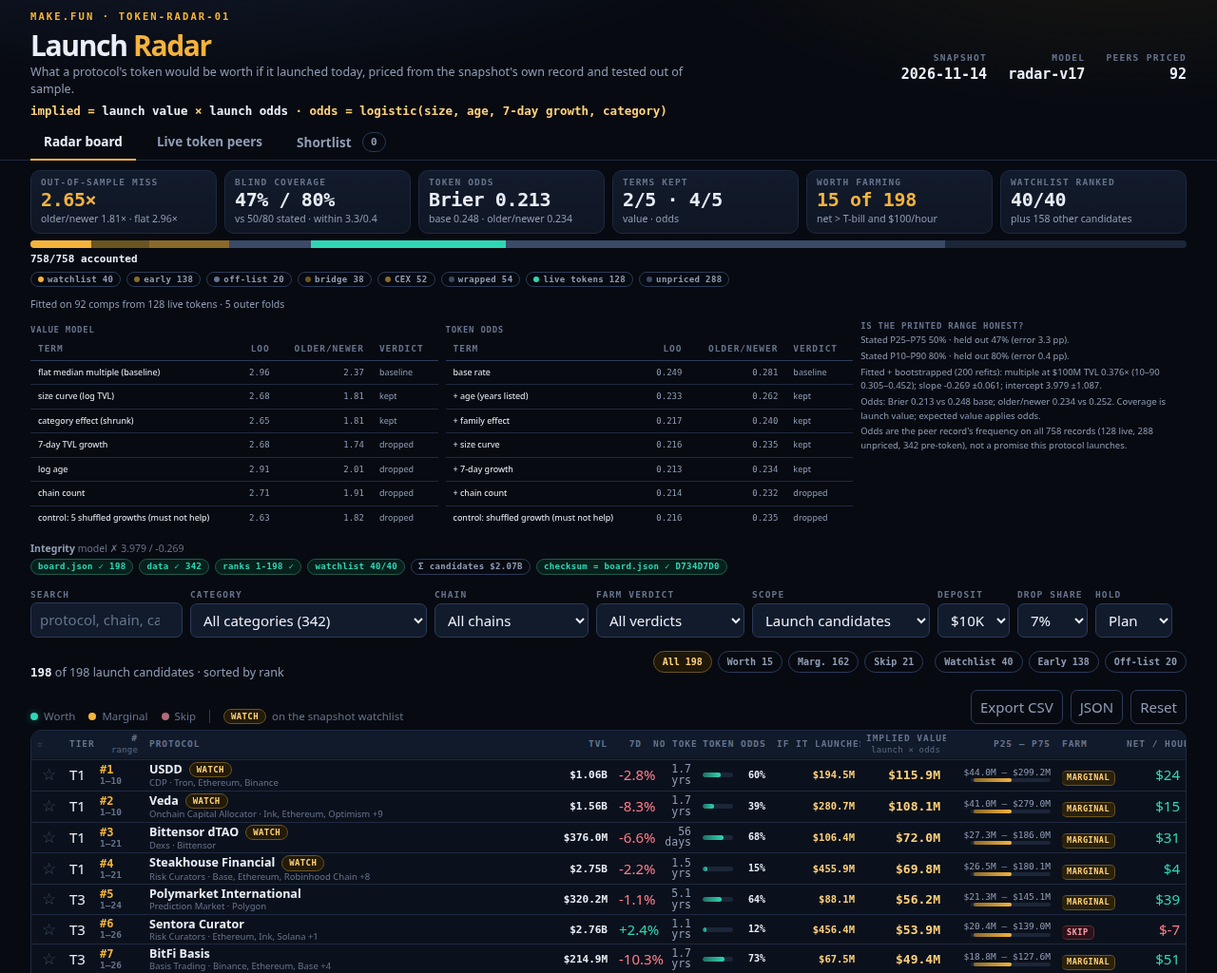
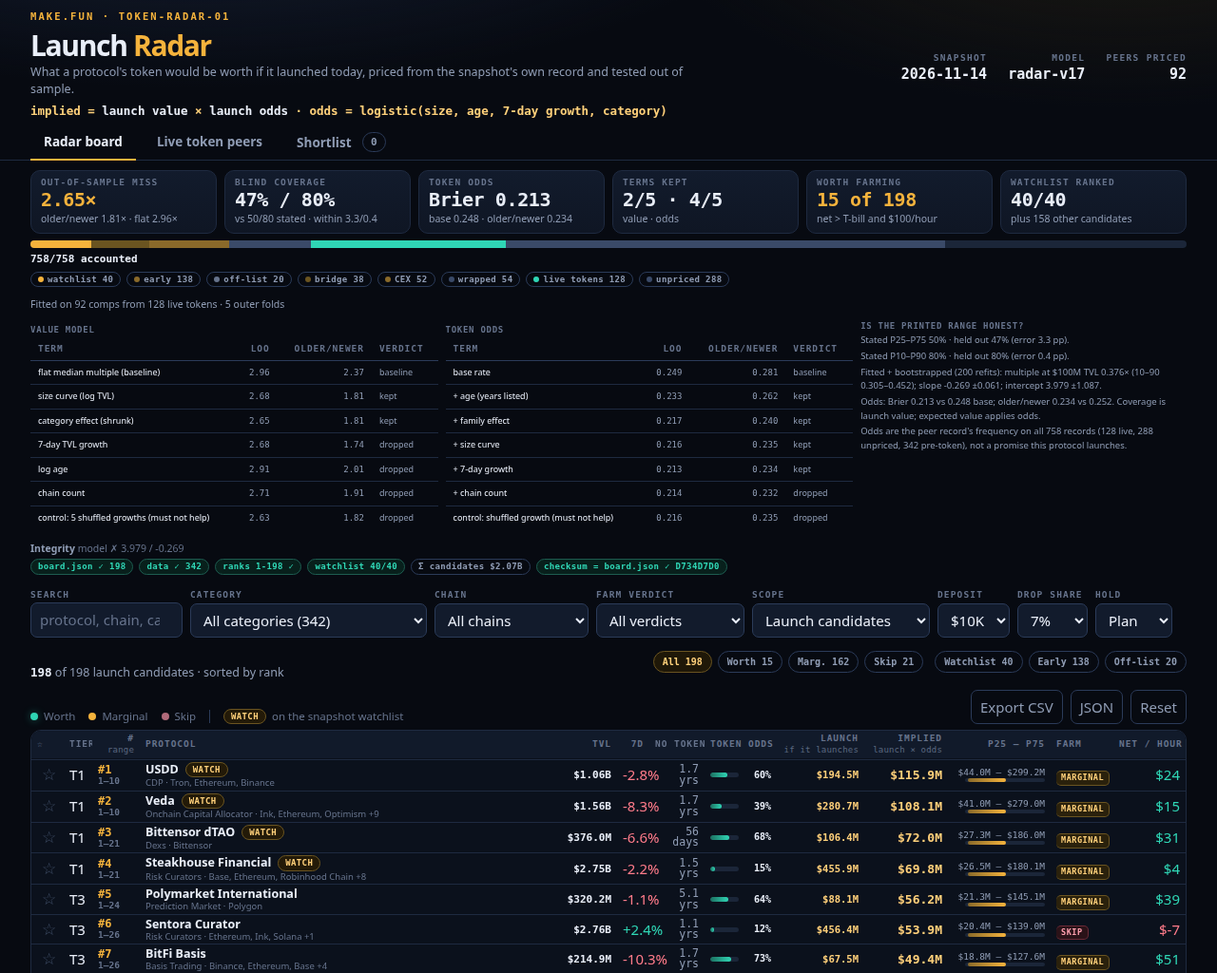
Fit the v17 board headers and final screenshots

diff --git a/dashboard/app.css b/dashboard/app.css
@@ -1,1 +1,1 @@
-:root{ --bg:#070a11;--panel:#0f1624;--panel2:#121b2c;--line:#1e2a40;--line2:#2b3b59; --text:#e9eef8;--mute:#8f9cb4;--dim:#66738c;--amber:#f5b33c;--amber2:#ffd07a; --teal:#2fd6b5;--red:#ff7b8a;--purple:#9a86b8; --mono:ui-monospace,"SF Mono",SFMono-Regular,Menlo,Consolas,monospace; }*{box-sizing:border-box}[hidden]{display:none!important}html{background:var(--bg)}body{margin:0;color:var(--text);font:15px/1.5 system-ui,-apple-system,"Segoe UI",Roboto,sans-serif; background:radial-gradient(1100px 420px at 16% -10%,#18233a 0%,transparent 60%),radial-gradient(900px 380px at 92% -6%,#1d1a12 0%,transparent 55%),var(--bg)}a{color:inherit}.skip{position:absolute;left:-999px;top:0;background:#fff;color:#000;padding:8px;z-index:20}.skip:focus{left:8px}.top{max-width:1440px;margin:0 auto;padding:12px 32px 6px;display:flex;justify-content:space-between;gap:24px;align-items:center}.eyebrow{display:block;font:600 10.5px/1 var(--mono);letter-spacing:.2em;text-transform:uppercase;color:var(--amber);margin-bottom:10px}h1{margin:0;font-size:30px;line-height:1;letter-spacing:-.045em;font-weight:740}h1 span{color:var(--amber)}.tagline{margin:4px 0 0;max-width:720px;color:var(--mute);font-size:12.5px}.stamp{display:flex;gap:22px;padding-top:4px}.stamp div{text-align:right}.stamp span{display:block;font:600 9.5px/1 var(--mono);letter-spacing:.14em;text-transform:uppercase;color:var(--dim)}.stamp b{display:block;margin-top:6px;font:600 15px/1 var(--mono)}.tabs{max-width:1440px;margin:0 auto;padding:0 32px;display:flex;gap:8px;border-bottom:1px solid var(--line)}.tabs a{padding:7px 14px;text-decoration:none;color:var(--mute);font-size:13.5px;font-weight:600;border-bottom:2px solid transparent;margin-bottom:-1px}.tabs a[aria-current=page]{color:var(--text);border-bottom-color:var(--amber)}.tabs a:hover{color:var(--text)}main{max-width:1440px;margin:0 auto;padding:10px 32px 30px}.kpis{display:grid;grid-template-columns:repeat(6,1fr);gap:8px}.kpi{background:linear-gradient(180deg,var(--panel2),var(--panel));border:1px solid var(--line);border-radius:10px;padding:7px 10px;min-height:62px}.kpi span{display:block;font:600 9.5px/1 var(--mono);letter-spacing:.12em;text-transform:uppercase;color:var(--dim)}.kpi b{display:block;margin-top:3px;font:600 20px/1 var(--mono);letter-spacing:-.02em}.kpi em{display:block;margin-top:3px;font-style:normal;font-size:10.5px;color:var(--mute)}.kpi.hot b{color:var(--amber)}.eqLine{margin:4px 0 0;color:var(--amber2);font:600 12.5px/1.4 var(--mono)}.eqLine b{color:var(--text)}.vchips{display:flex;gap:6px;margin:6px 0 10px;flex-wrap:wrap}.vchips button{font:600 10px/1.5 var(--mono);padding:3px 9px;border-radius:999px;background:transparent;color:var(--mute);border:1px solid var(--line2)}.vchips button.on{color:var(--amber2);border-color:#6a5420;background:#1f1808}.evGrid{display:grid;grid-template-columns:1fr 1fr .8fr;gap:8px;margin:2px 0 4px}.evHonesty{font-size:9.5px;line-height:1.55;color:var(--mute)}.honestyLine{margin:2px 0}.evChartTitle{font:600 9px var(--mono);letter-spacing:.08em;text-transform:uppercase;color:var(--dim);margin-bottom:3px}.evChart svg{width:100%;height:150px;display:block}.evTable caption{text-align:left;font:600 9px var(--mono);letter-spacing:.08em;text-transform:uppercase;color:var(--dim);padding:0 0 3px}.evTable{margin:4px 0 8px;font-size:10px}.evTable th,.evTable td{padding:1px 5px;font-size:9px}.chipRow{display:flex;gap:6px;flex-wrap:wrap;margin-top:4px}.statusline{margin:7px 0 2px;color:var(--mute);font-size:12px}.ledgerBar{display:flex;height:8px;border-radius:5px;overflow:hidden;background:#1b2639;margin:0 0 3px}.ledgerBar i{display:block;height:100%}.ledgerBar i.w{background:var(--amber)}.ledgerBar i.e{background:#8a6a2a}.ledgerBar i.s{background:#6a5420}.ledgerBar i.b{background:#6a5420}.ledgerBar i.c{background:#8a6a2a}.ledgerBar i.p{background:#3a4a68}.ledgerBar i.l{background:var(--teal)}.ledgerBar i.u{background:#3a4a68}.ledgerLegend{display:block;color:var(--dim);font-size:11px}.ledgerLegend b{color:var(--text);font-family:var(--mono)}.chip .dot{width:6px;height:6px;margin-right:4px;vertical-align:0}.dot.w{background:var(--amber)}.dot.e{background:#8a6a2a}.dot.s{background:#6a5420}.dot.b{background:#6a5420}.dot.c{background:#8a6a2a}.dot.p{background:#3a4a68}.dot.l{background:var(--teal)}.dot.u{background:#3a4a68}.chip{display:inline-block;border:1px solid var(--line2);border-radius:999px;padding:1px 7px;font:600 9px/1.4 var(--mono);letter-spacing:.04em;color:var(--mute)}.chip.watch{color:var(--amber2);border-color:#6a5420;background:#231a08}.chip.ok{color:var(--teal);border-color:#1d5c50;background:#08201c}.flowArrow{color:#33415e;font:600 13px var(--mono)}.flowItem{color:var(--mute);font-size:12px}.flowItem b{font-family:var(--mono);color:var(--text);font-size:12.5px}.flowItem.hot b{color:var(--amber)}.flowItem.ok b{color:var(--teal)}.flowNote{color:var(--dim);font-size:11px;margin-left:8px}.contract{margin:0 0 8px;color:var(--dim);font-size:10.5px;line-height:1.4}.evLine b{color:var(--mute);font-weight:600}.evLine i{font-style:normal;font-family:var(--mono);font-size:10px;margin-left:2px}.evLine i.up{color:var(--teal)}.evLine i.flat{color:#8a7a9a}.shareTable{margin:6px 0 4px}.shareTable th,.shareTable td{padding:1px 5px;font-size:9.5px}.shareTable tr.current td{color:var(--text);font-weight:600}.shareTable td:last-child{text-transform:uppercase;font-size:10px;letter-spacing:.04em}.toolbar{display:flex;gap:8px;align-items:flex-end;flex-wrap:wrap;padding:8px 0 6px}.toolbar label{display:flex;flex-direction:column;gap:4px}.toolbar label>span{font:600 9.5px/1 var(--mono);letter-spacing:.12em;text-transform:uppercase;color:var(--dim)}input,select,button{font:inherit;color:var(--text);background:var(--panel2);border:1px solid var(--line2);border-radius:7px;padding:6px 9px}input::placeholder{color:var(--dim)}input:focus,select:focus,button:focus-visible,a:focus-visible{outline:2px solid var(--amber);outline-offset:2px}.search input{width:160px}button{cursor:pointer}button.ghost{background:transparent;color:var(--mute)}button.ghost:hover{color:var(--text);border-color:var(--amber)}.sub{padding:2px 0 6px;justify-content:space-between}.count{margin:0;color:var(--mute);font-size:12.5px}.count b{color:var(--text);font-family:var(--mono)}.subActions{display:flex;gap:8px;margin-left:auto}.legend{display:flex;gap:14px;align-items:center;color:var(--dim);font-size:11.5px}.legend span{display:flex;align-items:center;gap:6px}.legend .sep{width:1px;height:14px;background:var(--line2)}.legend .sample{font-style:normal}.dot{width:8px;height:8px;border-radius:50%;display:inline-block;background:var(--dim)}.dot.v-worth{background:var(--teal);box-shadow:0 0 8px #2fd6b566}.dot.v-marginal{background:var(--amber)}.dot.v-skip{background:#b06a7a}.tableWrap{border:1px solid var(--line);border-radius:11px;overflow:auto;max-height:calc(100vh - 340px);background:#0b111c}table{border-collapse:collapse;width:100%;min-width:1180px}#table{table-layout:fixed;min-width:0}#table th:nth-child(2),#table td:nth-child(2){width:32px}#table th:nth-child(3),#table td:nth-child(3){width:52px}#table th:nth-child(4),#table td:nth-child(4){width:auto}#table th:nth-child(5),#table td:nth-child(5){width:68px}#table th:nth-child(6),#table td:nth-child(6){width:36px}#table th:nth-child(7),#table td:nth-child(7){width:52px}#table th:nth-child(8),#table td:nth-child(8){width:78px}#table th:nth-child(9),#table td:nth-child(9){width:94px}#table th:nth-child(10),#table td:nth-child(10){width:90px}#table th:nth-child(11),#table td:nth-child(11){width:116px}#table th:nth-child(12),#table td:nth-child(12){width:68px}#table th:nth-child(13),#table td:nth-child(13){width:68px}th,td{padding:2px 6px;text-align:left;border-bottom:1px solid var(--line);vertical-align:middle}th{position:sticky;top:0;z-index:2;background:#111a2a;font:600 9.5px/1.2 var(--mono);letter-spacing:.1em;text-transform:uppercase;color:var(--dim);white-space:nowrap;cursor:pointer;user-select:none}th small{display:block;font:500 9px/1.3 var(--mono);letter-spacing:.02em;text-transform:none;color:#5b6880;margin-top:2px}th:hover{color:var(--text)}th[data-active=asc]::after{content:' ↑';color:var(--amber)}th[data-active=desc]::after{content:' ↓';color:var(--amber)}th.num,td.num{text-align:right;font-variant-numeric:tabular-nums}tbody tr{cursor:pointer}tbody tr:hover{background:#121c2e}tbody tr:last-child td{border-bottom:0}td.rank{font:600 12px/1 var(--mono);color:var(--dim)}td.rank b{color:var(--amber)}.name{font-weight:650;font-size:12.5px;line-height:1.2}.name .chip{margin-left:7px;vertical-align:1px}.subline{margin-top:0;color:var(--dim);font-size:9.5px;line-height:1.2;max-width:300px;overflow:hidden;text-overflow:ellipsis;white-space:nowrap}td.money{font:600 11px/1 var(--mono)}td.implied{font:700 13px/1 var(--mono);color:var(--amber2)}td.launchVal{font:600 10.5px/1 var(--mono);color:var(--amber2)}td.multiple{font:500 12.5px/1 var(--mono)}td.age{font:500 11.5px/1 var(--mono);color:var(--mute)}td.bandText{font:500 9.5px/1 var(--mono);color:var(--mute);white-space:nowrap}.bandText span{display:block}.bandTrack{width:84px;height:4px;background:#1b2639;border-radius:2px;position:relative;overflow:hidden;margin:2px 0 0 auto}.bandTrack i{position:absolute;height:100%;background:linear-gradient(90deg,#8a6a2a,#f5b33c);border-radius:2px}.up{color:var(--teal)}.dn{color:var(--red)}.flat{color:var(--dim)}.starcol{width:34px;padding-right:0}.star{background:none;border:0;color:#3c4a63;font-size:17px;line-height:1;padding:2px 5px;border-radius:5px}.star:hover{color:var(--amber2)}.star.on{color:var(--amber)}.oddsCell{padding-top:6px;padding-bottom:6px}.odds{display:flex;align-items:center;gap:6px;justify-content:flex-end}.odds .track{width:40px;height:5px;background:#1b2639;border-radius:4px;overflow:hidden}.odds .track i{display:block;height:100%;background:linear-gradient(90deg,#1c6f60,#2fd6b5);border-radius:4px}.odds b{font:600 10px/1 var(--mono);color:var(--text);min-width:28px;text-align:right}.odds.wide{margin-top:4px}.odds.wide .track{width:100%;height:8px}.oddsBig{font:700 22px/1 var(--mono);color:var(--teal)}.verdict{display:inline-block;border-radius:5px;padding:1px 5px;font:700 8.5px/1.38 var(--mono);letter-spacing:.06em;border:1px solid transparent}.verdict.v-worth{background:#0b3a31;color:#5ff0d0;border-color:#1d6b5c}.verdict.v-marginal{background:#2a210c;color:#ffd07a;border-color:#6a5420}.verdict.v-skip{background:#2a1218;color:#ff9fae;border-color:#6a2a36}.verdictHead{display:flex;justify-content:space-between;align-items:center;gap:10px;margin-bottom:8px}.verdictHead b{font:600 13px/1.3 var(--mono)}.empty{padding:30px;text-align:center;color:var(--dim)}.footnote{margin:10px 2px 0;color:var(--dim);font-size:11.5px;max-width:960px}.pill{display:inline-block;margin-left:8px;border:1px solid var(--line2);border-radius:999px;padding:1px 8px;font:600 11px/1.6 var(--mono);color:var(--mute);vertical-align:2px}.sectionHead{padding:6px 0 12px}.sectionHead h2{margin:0 0 4px;font-size:22px;letter-spacing:-.02em}.sectionHead p{margin:0;color:var(--mute);font-size:13px;max-width:860px}.foot{max-width:1440px;margin:0 auto;padding:18px 32px 34px;border-top:1px solid var(--line);display:flex;justify-content:space-between;gap:20px;color:var(--dim);font-size:11.5px}.back{display:inline-flex;align-items:center;gap:8px;color:var(--mute);text-decoration:none;font-size:12.5px;margin:2px 0 14px}.back:hover{color:var(--amber)}.detail-route .top{padding:8px 32px 4px}.detail-route .brand h1{font-size:24px;margin:2px 0 0}.detail-route .tagline,.detail-route .eqLine,.detail-route .eyebrow{display:none}.detail-route .stamp div{padding:4px 8px}.detail-route .stamp span{font-size:8px}.detail-route .stamp b{font-size:10px}.detail-route main{padding-top:4px}.detailTop{border:1px solid var(--line);border-radius:12px;padding:8px 16px;background:linear-gradient(180deg,#141d2f,#0d1421)}.detailTitle{display:flex;align-items:baseline;gap:12px;flex-wrap:wrap;margin:0}.detailTitle h2{margin:0;font-size:26px;letter-spacing:-.03em}.rankChip{font:700 12px/1 var(--mono);color:#1b1305;background:var(--amber);border-radius:6px;padding:5px 8px}.rankChip.dim{background:#243149;color:var(--mute)}.detailMeta{margin-top:6px;color:var(--mute);font-size:13px}.detailMeta b{color:var(--text);font-weight:600}.notCand{margin-top:12px;border:1px solid #6a5420;background:#221a09;color:#ffd8a0;border-radius:8px;padding:9px 12px;font-size:12.5px}.statGrid{display:grid;grid-template-columns:repeat(4,1fr);gap:8px;margin:8px 0}.stat{background:var(--panel);border:1px solid var(--line);border-radius:10px;padding:7px 10px}.stat span{font:600 9.5px/1 var(--mono);letter-spacing:.12em;text-transform:uppercase;color:var(--dim)}.stat b{display:block;margin-top:4px;font:700 18px/1 var(--mono);letter-spacing:-.02em}.stat b.hot{color:var(--amber2)}.stat em{display:block;margin-top:5px;font-style:normal;color:var(--mute);font-size:11.5px}.cols{display:grid;grid-template-columns:1.02fr .98fr;gap:14px;align-items:start}.cols>*{min-width:0}.panel{background:var(--panel);border:1px solid var(--line);border-radius:11px;padding:10px 12px}.panel h3{margin:0 0 8px;font-size:14px}.panel h3:not(:first-child){margin-top:16px}.panel p{margin:6px 0;color:var(--mute);font-size:12.5px}.terms{display:grid;grid-template-columns:repeat(3,1fr);gap:8px;margin:10px 0}.term{background:#0b1220;border:1px solid var(--line);border-radius:8px;padding:9px 10px}.term span{display:block;font:600 9px/1.2 var(--mono);letter-spacing:.1em;text-transform:uppercase;color:var(--dim)}.term b{display:block;margin-top:5px;font:700 15px/1 var(--mono)}.term em{display:block;margin-top:4px;font-style:normal;font-size:10.5px;color:var(--dim)}.term.result{border-color:#6a5420;background:#1f1808}.term.result b{color:var(--amber2)}table.mini{width:100%;min-width:0;border-collapse:collapse;font-size:12px}table.mini th{position:static;background:transparent;border-bottom:1px solid var(--line2);padding:6px 8px;cursor:default;font-size:9.5px}table.mini td{padding:6px 8px;border-bottom:1px solid var(--line);color:var(--mute)}table.mini td:first-child{color:var(--text)}table.mini td.num{font-family:var(--mono)}.sandbox{margin:12px 0 6px;background:#0b1220;border:1px solid var(--line);border-radius:9px;padding:12px}.sbHead{display:flex;justify-content:space-between;align-items:center;gap:10px}.sbHead h4{margin:0;font-size:12px}.sbReset{font-size:11px;padding:3px 9px}.sbHint{margin:4px 0 8px;font-size:11px;color:var(--dim)}.sbRow{display:grid;grid-template-columns:94px 1fr 74px;gap:10px;align-items:center;font-size:11.5px;color:var(--mute);margin:5px 0}.sbRow input[type=range]{width:100%;accent-color:var(--amber);background:none;border:0;padding:0}.sbRow b{font-family:var(--mono);font-size:11.5px;color:var(--text);text-align:right}.sbOut{display:flex;gap:10px;align-items:baseline;margin-top:10px;border-top:1px solid var(--line);padding-top:9px;flex-wrap:wrap}.sbOut span{font:600 9px var(--mono);letter-spacing:.1em;text-transform:uppercase;color:var(--dim)}.sbOut b{font:700 19px var(--mono);color:var(--amber2)}.sbOut em{font-style:normal;color:var(--dim);font-size:10.5px}.planTable{table-layout:fixed;width:100%}.planTable td{vertical-align:top;padding:0 3px;font-size:9px;line-height:1.15}.planTable th:nth-child(1),.planTable td:nth-child(1){width:24px}.planTable th:nth-child(3),.planTable td.cost{width:82px}.planTable th:nth-child(4),.planTable td.time{width:58px}.planTable td:nth-child(2){white-space:normal;word-break:break-word;color:var(--mute);line-height:1.45}.planTable td.cost{font-family:var(--mono);white-space:normal;line-height:1.35;color:var(--amber2);font-size:11px}.planTable td.time{font-family:var(--mono);white-space:normal;line-height:1.35;color:var(--dim);font-size:11px}.verdict{border-left:0}.verdictHead + .terms{margin-top:8px}.dd{margin:6px 0 0;padding-left:18px;color:var(--mute);font-size:12.5px}.dd li{margin:4px 0}.muted{color:var(--mute)}.eq{font:600 14px/1.5 var(--mono);color:var(--amber2);background:#0b1220;border:1px solid var(--line);border-radius:8px;padding:10px 12px}.score span{display:block;font:600 9px/1.2 var(--mono);letter-spacing:.1em;text-transform:uppercase;color:var(--dim)}.limits{margin:6px 0;padding-left:18px;color:var(--mute);font-size:12.5px}.limits li{margin:4px 0}.source{margin-top:10px;font-size:11px;word-break:break-word}.compareTable{width:100%;border-collapse:collapse;background:var(--panel);border:1px solid var(--line);border-radius:10px;overflow:hidden;font-size:12.5px}.compareTable th,.compareTable td{padding:9px 12px;border-bottom:1px solid var(--line);text-align:left}.compareTable th{position:static;background:#111a2a;font:600 10px var(--mono);letter-spacing:.1em;text-transform:uppercase;color:var(--dim);cursor:default}.compareTable th.num,.compareTable td.num{text-align:right;font-family:var(--mono)}.compareTable td:first-child{color:var(--mute);white-space:nowrap}.inlineLink{color:var(--amber);text-decoration:none;border-bottom:1px solid #6a5420}@media (max-width:1100px){.kpis{grid-template-columns:repeat(3,1fr)}.cols,.terms{grid-template-columns:repeat(2,1fr)}.statGrid{grid-template-columns:repeat(2,1fr)}.stamp{display:none}}.planTotals{grid-template-columns:repeat(6,1fr)}.planList{margin-top:8px}@media (max-width:1100px){.planTotals{grid-template-columns:repeat(3,1fr)}}
+:root{ --bg:#070a11;--panel:#0f1624;--panel2:#121b2c;--line:#1e2a40;--line2:#2b3b59; --text:#e9eef8;--mute:#8f9cb4;--dim:#66738c;--amber:#f5b33c;--amber2:#ffd07a; --teal:#2fd6b5;--red:#ff7b8a;--purple:#9a86b8; --mono:ui-monospace,"SF Mono",SFMono-Regular,Menlo,Consolas,monospace; }*{box-sizing:border-box}[hidden]{display:none!important}html{background:var(--bg)}body{margin:0;color:var(--text);font:15px/1.5 system-ui,-apple-system,"Segoe UI",Roboto,sans-serif; background:radial-gradient(1100px 420px at 16% -10%,#18233a 0%,transparent 60%),radial-gradient(900px 380px at 92% -6%,#1d1a12 0%,transparent 55%),var(--bg)}a{color:inherit}.skip{position:absolute;left:-999px;top:0;background:#fff;color:#000;padding:8px;z-index:20}.skip:focus{left:8px}.top{max-width:1440px;margin:0 auto;padding:12px 32px 6px;display:flex;justify-content:space-between;gap:24px;align-items:center}.eyebrow{display:block;font:600 10.5px/1 var(--mono);letter-spacing:.2em;text-transform:uppercase;color:var(--amber);margin-bottom:10px}h1{margin:0;font-size:30px;line-height:1;letter-spacing:-.045em;font-weight:740}h1 span{color:var(--amber)}.tagline{margin:4px 0 0;max-width:720px;color:var(--mute);font-size:12.5px}.stamp{display:flex;gap:22px;padding-top:4px}.stamp div{text-align:right}.stamp span{display:block;font:600 9.5px/1 var(--mono);letter-spacing:.14em;text-transform:uppercase;color:var(--dim)}.stamp b{display:block;margin-top:6px;font:600 15px/1 var(--mono)}.tabs{max-width:1440px;margin:0 auto;padding:0 32px;display:flex;gap:8px;border-bottom:1px solid var(--line)}.tabs a{padding:7px 14px;text-decoration:none;color:var(--mute);font-size:13.5px;font-weight:600;border-bottom:2px solid transparent;margin-bottom:-1px}.tabs a[aria-current=page]{color:var(--text);border-bottom-color:var(--amber)}.tabs a:hover{color:var(--text)}main{max-width:1440px;margin:0 auto;padding:10px 32px 30px}.kpis{display:grid;grid-template-columns:repeat(6,1fr);gap:8px}.kpi{background:linear-gradient(180deg,var(--panel2),var(--panel));border:1px solid var(--line);border-radius:10px;padding:7px 10px;min-height:62px}.kpi span{display:block;font:600 9.5px/1 var(--mono);letter-spacing:.12em;text-transform:uppercase;color:var(--dim)}.kpi b{display:block;margin-top:3px;font:600 20px/1 var(--mono);letter-spacing:-.02em}.kpi em{display:block;margin-top:3px;font-style:normal;font-size:10.5px;color:var(--mute)}.kpi.hot b{color:var(--amber)}.eqLine{margin:4px 0 0;color:var(--amber2);font:600 12.5px/1.4 var(--mono)}.eqLine b{color:var(--text)}.vchips{display:flex;gap:6px;margin:6px 0 10px;flex-wrap:wrap}.vchips button{font:600 10px/1.5 var(--mono);padding:3px 9px;border-radius:999px;background:transparent;color:var(--mute);border:1px solid var(--line2)}.vchips button.on{color:var(--amber2);border-color:#6a5420;background:#1f1808}.evGrid{display:grid;grid-template-columns:1fr 1fr .8fr;gap:8px;margin:2px 0 4px}.evHonesty{font-size:9.5px;line-height:1.55;color:var(--mute)}.honestyLine{margin:2px 0}.evChartTitle{font:600 9px var(--mono);letter-spacing:.08em;text-transform:uppercase;color:var(--dim);margin-bottom:3px}.evChart svg{width:100%;height:150px;display:block}.evTable caption{text-align:left;font:600 9px var(--mono);letter-spacing:.08em;text-transform:uppercase;color:var(--dim);padding:0 0 3px}.evTable{margin:4px 0 8px;font-size:10px}.evTable th,.evTable td{padding:1px 5px;font-size:9px}.chipRow{display:flex;gap:6px;flex-wrap:wrap;margin-top:4px}.statusline{margin:7px 0 2px;color:var(--mute);font-size:12px}.ledgerBar{display:flex;height:8px;border-radius:5px;overflow:hidden;background:#1b2639;margin:0 0 3px}.ledgerBar i{display:block;height:100%}.ledgerBar i.w{background:var(--amber)}.ledgerBar i.e{background:#8a6a2a}.ledgerBar i.s{background:#6a5420}.ledgerBar i.b{background:#6a5420}.ledgerBar i.c{background:#8a6a2a}.ledgerBar i.p{background:#3a4a68}.ledgerBar i.l{background:var(--teal)}.ledgerBar i.u{background:#3a4a68}.ledgerLegend{display:block;color:var(--dim);font-size:11px}.ledgerLegend b{color:var(--text);font-family:var(--mono)}.chip .dot{width:6px;height:6px;margin-right:4px;vertical-align:0}.dot.w{background:var(--amber)}.dot.e{background:#8a6a2a}.dot.s{background:#6a5420}.dot.b{background:#6a5420}.dot.c{background:#8a6a2a}.dot.p{background:#3a4a68}.dot.l{background:var(--teal)}.dot.u{background:#3a4a68}.chip{display:inline-block;border:1px solid var(--line2);border-radius:999px;padding:1px 7px;font:600 9px/1.4 var(--mono);letter-spacing:.04em;color:var(--mute)}.chip.watch{color:var(--amber2);border-color:#6a5420;background:#231a08}.chip.ok{color:var(--teal);border-color:#1d5c50;background:#08201c}.flowArrow{color:#33415e;font:600 13px var(--mono)}.flowItem{color:var(--mute);font-size:12px}.flowItem b{font-family:var(--mono);color:var(--text);font-size:12.5px}.flowItem.hot b{color:var(--amber)}.flowItem.ok b{color:var(--teal)}.flowNote{color:var(--dim);font-size:11px;margin-left:8px}.contract{margin:0 0 8px;color:var(--dim);font-size:10.5px;line-height:1.4}.evLine b{color:var(--mute);font-weight:600}.evLine i{font-style:normal;font-family:var(--mono);font-size:10px;margin-left:2px}.evLine i.up{color:var(--teal)}.evLine i.flat{color:#8a7a9a}.shareTable{margin:6px 0 4px}.shareTable th,.shareTable td{padding:1px 5px;font-size:9.5px}.shareTable tr.current td{color:var(--text);font-weight:600}.shareTable td:last-child{text-transform:uppercase;font-size:10px;letter-spacing:.04em}.toolbar{display:flex;gap:8px;align-items:flex-end;flex-wrap:wrap;padding:8px 0 6px}.toolbar label{display:flex;flex-direction:column;gap:4px}.toolbar label>span{font:600 9.5px/1 var(--mono);letter-spacing:.12em;text-transform:uppercase;color:var(--dim)}input,select,button{font:inherit;color:var(--text);background:var(--panel2);border:1px solid var(--line2);border-radius:7px;padding:6px 9px}input::placeholder{color:var(--dim)}input:focus,select:focus,button:focus-visible,a:focus-visible{outline:2px solid var(--amber);outline-offset:2px}.search input{width:160px}button{cursor:pointer}button.ghost{background:transparent;color:var(--mute)}button.ghost:hover{color:var(--text);border-color:var(--amber)}.sub{padding:2px 0 6px;justify-content:space-between}.count{margin:0;color:var(--mute);font-size:12.5px}.count b{color:var(--text);font-family:var(--mono)}.subActions{display:flex;gap:8px;margin-left:auto}.legend{display:flex;gap:14px;align-items:center;color:var(--dim);font-size:11.5px}.legend span{display:flex;align-items:center;gap:6px}.legend .sep{width:1px;height:14px;background:var(--line2)}.legend .sample{font-style:normal}.dot{width:8px;height:8px;border-radius:50%;display:inline-block;background:var(--dim)}.dot.v-worth{background:var(--teal);box-shadow:0 0 8px #2fd6b566}.dot.v-marginal{background:var(--amber)}.dot.v-skip{background:#b06a7a}.tableWrap{border:1px solid var(--line);border-radius:11px;overflow:auto;max-height:calc(100vh - 340px);background:#0b111c}table{border-collapse:collapse;width:100%;min-width:1180px}#table{table-layout:fixed;min-width:0}#table th:nth-child(2),#table td:nth-child(2){width:30px}#table th:nth-child(3),#table td:nth-child(3){width:50px}#table th:nth-child(4),#table td:nth-child(4){width:auto}#table th:nth-child(5),#table td:nth-child(5){width:66px}#table th:nth-child(6),#table td:nth-child(6){width:34px}#table th:nth-child(7),#table td:nth-child(7){width:58px}#table th:nth-child(8),#table td:nth-child(8){width:76px}#table th:nth-child(9),#table td:nth-child(9){width:92px}#table th:nth-child(10),#table td:nth-child(10){width:88px}#table th:nth-child(11),#table td:nth-child(11){width:108px}#table th:nth-child(12),#table td:nth-child(12){width:66px}#table th:nth-child(13),#table td:nth-child(13){width:76px}th,td{padding:2px 6px;text-align:left;border-bottom:1px solid var(--line);vertical-align:middle}th{position:sticky;top:0;z-index:2;background:#111a2a;font:600 9.5px/1.2 var(--mono);letter-spacing:.1em;text-transform:uppercase;color:var(--dim);white-space:nowrap;cursor:pointer;user-select:none}th small{display:block;font:500 9px/1.3 var(--mono);letter-spacing:.02em;text-transform:none;color:#5b6880;margin-top:2px}th:hover{color:var(--text)}th[data-active=asc]::after{content:' ↑';color:var(--amber)}th[data-active=desc]::after{content:' ↓';color:var(--amber)}th.num,td.num{text-align:right;font-variant-numeric:tabular-nums}tbody tr{cursor:pointer}tbody tr:hover{background:#121c2e}tbody tr:last-child td{border-bottom:0}td.rank{font:600 12px/1 var(--mono);color:var(--dim)}td.rank b{color:var(--amber)}.name{font-weight:650;font-size:12.5px;line-height:1.2}.name .chip{margin-left:7px;vertical-align:1px}.subline{margin-top:0;color:var(--dim);font-size:9.5px;line-height:1.2;max-width:300px;overflow:hidden;text-overflow:ellipsis;white-space:nowrap}td.money{font:600 11px/1 var(--mono)}td.implied{font:700 13px/1 var(--mono);color:var(--amber2)}td.launchVal{font:600 10.5px/1 var(--mono);color:var(--amber2)}td.multiple{font:500 12.5px/1 var(--mono)}td.age{font:500 11.5px/1 var(--mono);color:var(--mute)}td.bandText{font:500 9.5px/1 var(--mono);color:var(--mute);white-space:nowrap}.bandText span{display:block}.bandTrack{width:84px;height:4px;background:#1b2639;border-radius:2px;position:relative;overflow:hidden;margin:2px 0 0 auto}.bandTrack i{position:absolute;height:100%;background:linear-gradient(90deg,#8a6a2a,#f5b33c);border-radius:2px}.up{color:var(--teal)}.dn{color:var(--red)}.flat{color:var(--dim)}.starcol{width:34px;padding-right:0}.star{background:none;border:0;color:#3c4a63;font-size:17px;line-height:1;padding:2px 5px;border-radius:5px}.star:hover{color:var(--amber2)}.star.on{color:var(--amber)}.oddsCell{padding-top:6px;padding-bottom:6px}.odds{display:flex;align-items:center;gap:6px;justify-content:flex-end}.odds .track{width:40px;height:5px;background:#1b2639;border-radius:4px;overflow:hidden}.odds .track i{display:block;height:100%;background:linear-gradient(90deg,#1c6f60,#2fd6b5);border-radius:4px}.odds b{font:600 10px/1 var(--mono);color:var(--text);min-width:28px;text-align:right}.odds.wide{margin-top:4px}.odds.wide .track{width:100%;height:8px}.oddsBig{font:700 22px/1 var(--mono);color:var(--teal)}.verdict{display:inline-block;border-radius:5px;padding:1px 5px;font:700 8.5px/1.38 var(--mono);letter-spacing:.06em;border:1px solid transparent}.verdict.v-worth{background:#0b3a31;color:#5ff0d0;border-color:#1d6b5c}.verdict.v-marginal{background:#2a210c;color:#ffd07a;border-color:#6a5420}.verdict.v-skip{background:#2a1218;color:#ff9fae;border-color:#6a2a36}.verdictHead{display:flex;justify-content:space-between;align-items:center;gap:10px;margin-bottom:8px}.verdictHead b{font:600 13px/1.3 var(--mono)}.empty{padding:30px;text-align:center;color:var(--dim)}.footnote{margin:10px 2px 0;color:var(--dim);font-size:11.5px;max-width:960px}.pill{display:inline-block;margin-left:8px;border:1px solid var(--line2);border-radius:999px;padding:1px 8px;font:600 11px/1.6 var(--mono);color:var(--mute);vertical-align:2px}.sectionHead{padding:6px 0 12px}.sectionHead h2{margin:0 0 4px;font-size:22px;letter-spacing:-.02em}.sectionHead p{margin:0;color:var(--mute);font-size:13px;max-width:860px}.foot{max-width:1440px;margin:0 auto;padding:18px 32px 34px;border-top:1px solid var(--line);display:flex;justify-content:space-between;gap:20px;color:var(--dim);font-size:11.5px}.back{display:inline-flex;align-items:center;gap:8px;color:var(--mute);text-decoration:none;font-size:12.5px;margin:2px 0 14px}.back:hover{color:var(--amber)}.detail-route .top{padding:8px 32px 4px}.detail-route .brand h1{font-size:24px;margin:2px 0 0}.detail-route .tagline,.detail-route .eqLine,.detail-route .eyebrow{display:none}.detail-route .stamp div{padding:4px 8px}.detail-route .stamp span{font-size:8px}.detail-route .stamp b{font-size:10px}.detail-route main{padding-top:4px}.detailTop{border:1px solid var(--line);border-radius:12px;padding:8px 16px;background:linear-gradient(180deg,#141d2f,#0d1421)}.detailTitle{display:flex;align-items:baseline;gap:12px;flex-wrap:wrap;margin:0}.detailTitle h2{margin:0;font-size:26px;letter-spacing:-.03em}.rankChip{font:700 12px/1 var(--mono);color:#1b1305;background:var(--amber);border-radius:6px;padding:5px 8px}.rankChip.dim{background:#243149;color:var(--mute)}.detailMeta{margin-top:6px;color:var(--mute);font-size:13px}.detailMeta b{color:var(--text);font-weight:600}.notCand{margin-top:12px;border:1px solid #6a5420;background:#221a09;color:#ffd8a0;border-radius:8px;padding:9px 12px;font-size:12.5px}.statGrid{display:grid;grid-template-columns:repeat(4,1fr);gap:8px;margin:8px 0}.stat{background:var(--panel);border:1px solid var(--line);border-radius:10px;padding:7px 10px}.stat span{font:600 9.5px/1 var(--mono);letter-spacing:.12em;text-transform:uppercase;color:var(--dim)}.stat b{display:block;margin-top:4px;font:700 18px/1 var(--mono);letter-spacing:-.02em}.stat b.hot{color:var(--amber2)}.stat em{display:block;margin-top:5px;font-style:normal;color:var(--mute);font-size:11.5px}.cols{display:grid;grid-template-columns:1.02fr .98fr;gap:14px;align-items:start}.cols>*{min-width:0}.panel{background:var(--panel);border:1px solid var(--line);border-radius:11px;padding:10px 12px}.panel h3{margin:0 0 8px;font-size:14px}.panel h3:not(:first-child){margin-top:16px}.panel p{margin:6px 0;color:var(--mute);font-size:12.5px}.terms{display:grid;grid-template-columns:repeat(3,1fr);gap:8px;margin:10px 0}.term{background:#0b1220;border:1px solid var(--line);border-radius:8px;padding:9px 10px}.term span{display:block;font:600 9px/1.2 var(--mono);letter-spacing:.1em;text-transform:uppercase;color:var(--dim)}.term b{display:block;margin-top:5px;font:700 15px/1 var(--mono)}.term em{display:block;margin-top:4px;font-style:normal;font-size:10.5px;color:var(--dim)}.term.result{border-color:#6a5420;background:#1f1808}.term.result b{color:var(--amber2)}table.mini{width:100%;min-width:0;border-collapse:collapse;font-size:12px}table.mini th{position:static;background:transparent;border-bottom:1px solid var(--line2);padding:6px 8px;cursor:default;font-size:9.5px}table.mini td{padding:6px 8px;border-bottom:1px solid var(--line);color:var(--mute)}table.mini td:first-child{color:var(--text)}table.mini td.num{font-family:var(--mono)}.sandbox{margin:12px 0 6px;background:#0b1220;border:1px solid var(--line);border-radius:9px;padding:12px}.sbHead{display:flex;justify-content:space-between;align-items:center;gap:10px}.sbHead h4{margin:0;font-size:12px}.sbReset{font-size:11px;padding:3px 9px}.sbHint{margin:4px 0 8px;font-size:11px;color:var(--dim)}.sbRow{display:grid;grid-template-columns:94px 1fr 74px;gap:10px;align-items:center;font-size:11.5px;color:var(--mute);margin:5px 0}.sbRow input[type=range]{width:100%;accent-color:var(--amber);background:none;border:0;padding:0}.sbRow b{font-family:var(--mono);font-size:11.5px;color:var(--text);text-align:right}.sbOut{display:flex;gap:10px;align-items:baseline;margin-top:10px;border-top:1px solid var(--line);padding-top:9px;flex-wrap:wrap}.sbOut span{font:600 9px var(--mono);letter-spacing:.1em;text-transform:uppercase;color:var(--dim)}.sbOut b{font:700 19px var(--mono);color:var(--amber2)}.sbOut em{font-style:normal;color:var(--dim);font-size:10.5px}.planTable{table-layout:fixed;width:100%}.planTable td{vertical-align:top;padding:0 3px;font-size:9px;line-height:1.15}.planTable th:nth-child(1),.planTable td:nth-child(1){width:24px}.planTable th:nth-child(3),.planTable td.cost{width:82px}.planTable th:nth-child(4),.planTable td.time{width:58px}.planTable td:nth-child(2){white-space:normal;word-break:break-word;color:var(--mute);line-height:1.45}.planTable td.cost{font-family:var(--mono);white-space:normal;line-height:1.35;color:var(--amber2);font-size:11px}.planTable td.time{font-family:var(--mono);white-space:normal;line-height:1.35;color:var(--dim);font-size:11px}.verdict{border-left:0}.verdictHead + .terms{margin-top:8px}.dd{margin:6px 0 0;padding-left:18px;color:var(--mute);font-size:12.5px}.dd li{margin:4px 0}.muted{color:var(--mute)}.eq{font:600 14px/1.5 var(--mono);color:var(--amber2);background:#0b1220;border:1px solid var(--line);border-radius:8px;padding:10px 12px}.score span{display:block;font:600 9px/1.2 var(--mono);letter-spacing:.1em;text-transform:uppercase;color:var(--dim)}.limits{margin:6px 0;padding-left:18px;color:var(--mute);font-size:12.5px}.limits li{margin:4px 0}.source{margin-top:10px;font-size:11px;word-break:break-word}.compareTable{width:100%;border-collapse:collapse;background:var(--panel);border:1px solid var(--line);border-radius:10px;overflow:hidden;font-size:12.5px}.compareTable th,.compareTable td{padding:9px 12px;border-bottom:1px solid var(--line);text-align:left}.compareTable th{position:static;background:#111a2a;font:600 10px var(--mono);letter-spacing:.1em;text-transform:uppercase;color:var(--dim);cursor:default}.compareTable th.num,.compareTable td.num{text-align:right;font-family:var(--mono)}.compareTable td:first-child{color:var(--mute);white-space:nowrap}.inlineLink{color:var(--amber);text-decoration:none;border-bottom:1px solid #6a5420}@media (max-width:1100px){.kpis{grid-template-columns:repeat(3,1fr)}.cols,.terms{grid-template-columns:repeat(2,1fr)}.statGrid{grid-template-columns:repeat(2,1fr)}.stamp{display:none}}.planTotals{grid-template-columns:repeat(6,1fr)}.planList{margin-top:8px}@media (max-width:1100px){.planTotals{grid-template-columns:repeat(3,1fr)}}

diff --git a/dashboard/index.html b/dashboard/index.html
@@ -81,8 +81,8 @@
             <th class="num" data-sort="ch7">7D</th>
             <th class="num" data-sort="age">No token</th>
             <th class="num" data-sort="odds">Token odds</th>
-            <th class="num" data-sort="launch">If it launches</th>
-            <th class="num" data-sort="implied">Implied value <small>launch × odds</small></th>
+            <th class="num" data-sort="launch">Launch <small>if it launches</small></th>
+            <th class="num" data-sort="implied">Implied <small>launch × odds</small></th>
             <th class="num" data-sort="p75">P25 – P75</th>
             <th data-sort="verdict">Farm</th>
             <th class="num" data-sort="perHour">Net / hour</th>

diff --git a/docs/CHANGELOG.md b/docs/CHANGELOG.md
@@ -196,7 +196,7 @@ Rebuilt the model to the standard the leader's public artifact showed:
 - `board.json` is now the 198 candidates only, with candidate ranks; the 342-row UI keeps
   the set-aside records for filters. Accounting groups are mutually exclusive and sum 758.
   The integrity row checks board, data, ranks, watchlist and checksum; all pass.
-- Gate: dashboard source 63,610 / 65,536; dossier text 63,957; verify.mjs and browser smoke pass; not submitted. The final pick remains v5 at 942,846.
+- Gate: dashboard source 63,626 / 65,536; dossier text 63,973; verify.mjs and browser smoke pass; not submitted. The final pick remains v5 at 942,846.
 
 ### v17 final local build, 2026-11-24
 
@@ -205,6 +205,6 @@ Rebuilt the model to the standard the leader's public artifact showed:
 - Expected value = launch value × launch odds. The cover shows full value and odds term tables (odds terms added in order with a shuffled-growth control), a printed-range honesty panel with 200-refit bootstrap, 758-protocol accounting split into watchlist 40 + early 138 + off-list 20 + bridge 38 + CEX 52 + wrapped 54 + live 128 + unpriced 288, integrity chips, and 7D/age/launch columns.
 - Farm verdicts are conservative: net above the plan-horizon T-bill and **$100/hour**; **15 of 198** qualify. Detail is XRPL DEX: 10 costed steps, chain funding, numeric TVL exit, P25/break-even, net-by-drop-share matrix.
 - Planner and method tabs removed; three screenshots (board, detail, filtered) remain. Board/filtered controls: deposit, drop share, hold, chain, category, verdict, scope and tier; verdict/tier chips are clickable; CSV and JSON export; the filtered view sorts by net/hour.
-- Gate: dashboard source **63,610 / 65,536**; dossier text **63,957**; three 1280x1024 screenshots; `verify.mjs` and the browser smoke check pass. **Not submitted**; v5 remains the final pick.
+- Gate: dashboard source **63,626 / 65,536**; dossier text **63,973**; three 1280x1024 screenshots; `verify.mjs` and the browser smoke check pass. **Not submitted**; v5 remains the final pick.
 - Local proof: deterministic rubric ranks v17 **99** vs leader 1 **97**; the independent Codex/Claude image panel still ranks leader 1 above v17 by 2-3 in every repeated order. The local #1 is therefore rubric-only, not unanimous. See `.local/token-radar/local-judge/PROOF.md`.
 - Final cover also has launch value, tier, early/off-list filters, total/checksum integrity chips and JSON export; the filtered view is sorted by net/hour. The local independent panel still prefers leader 1; no submission.
